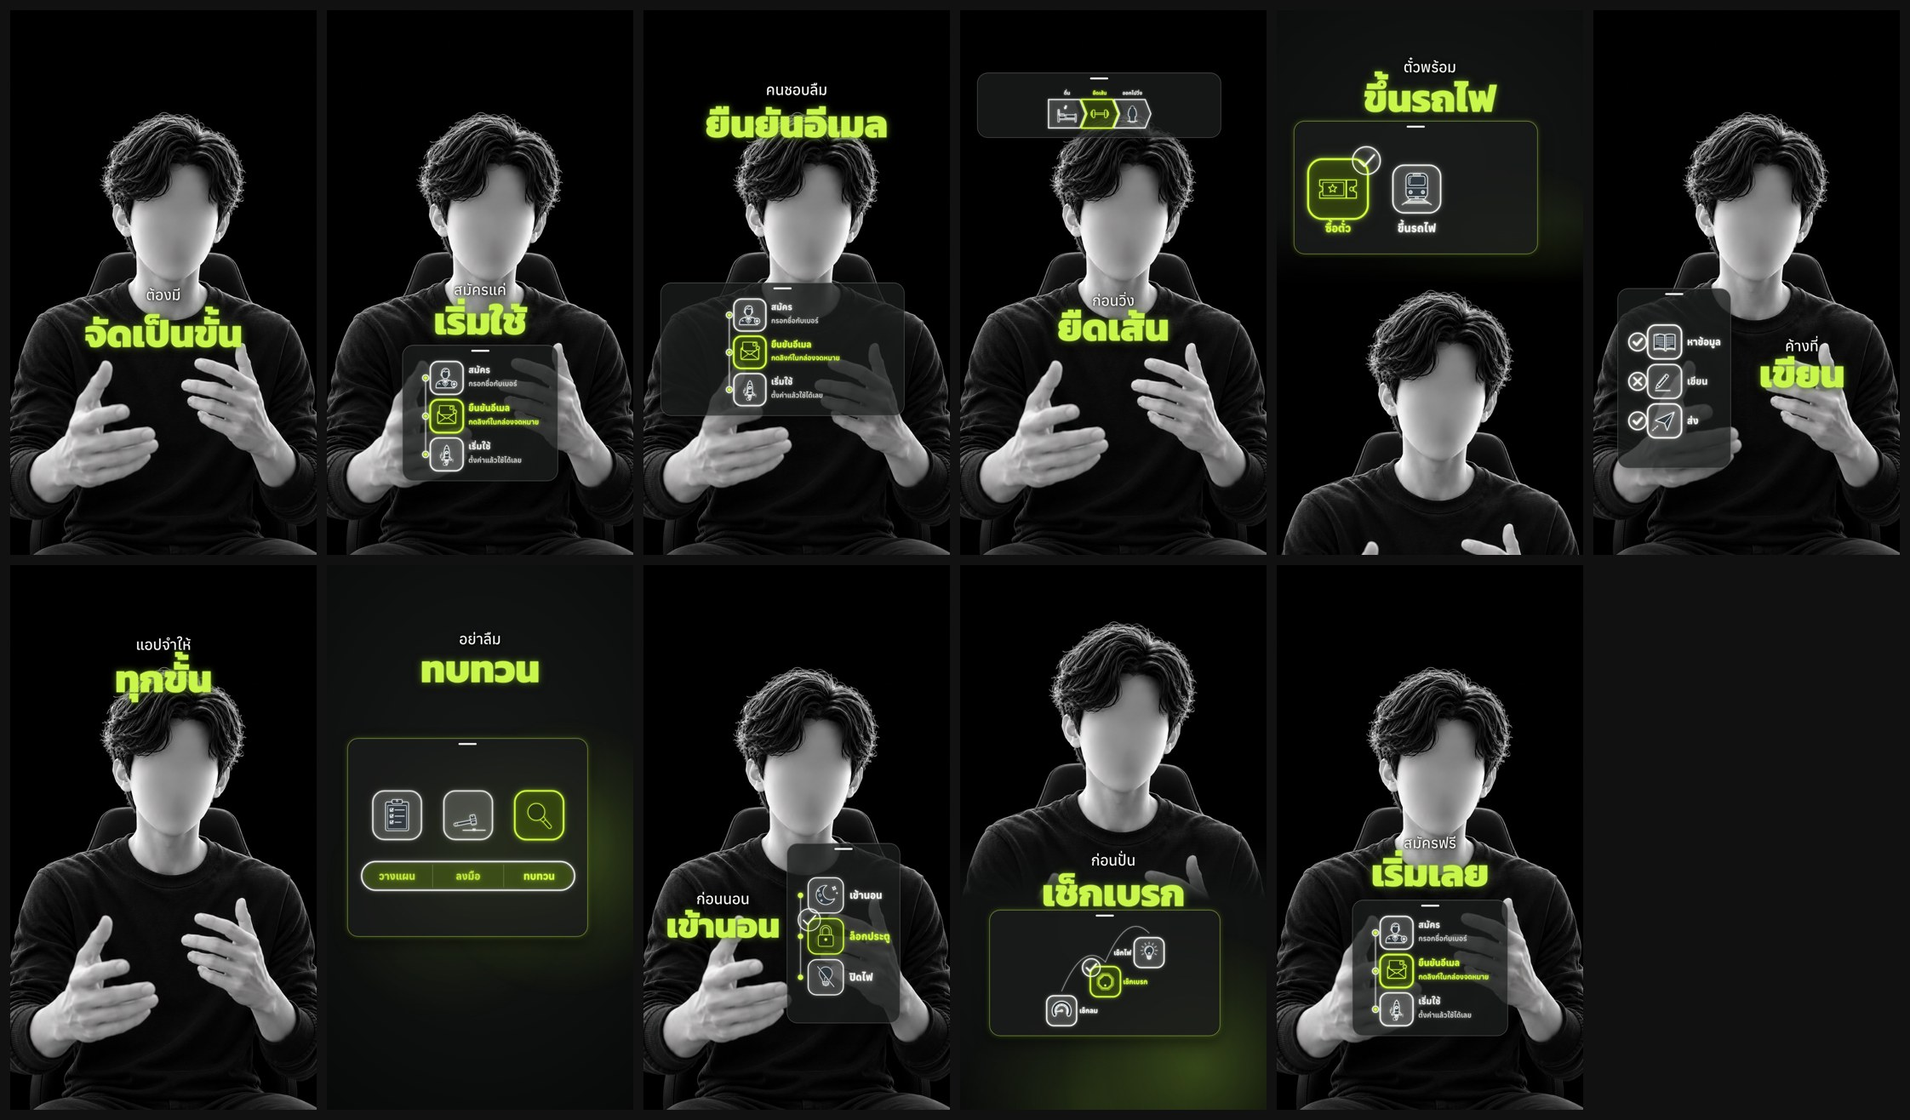
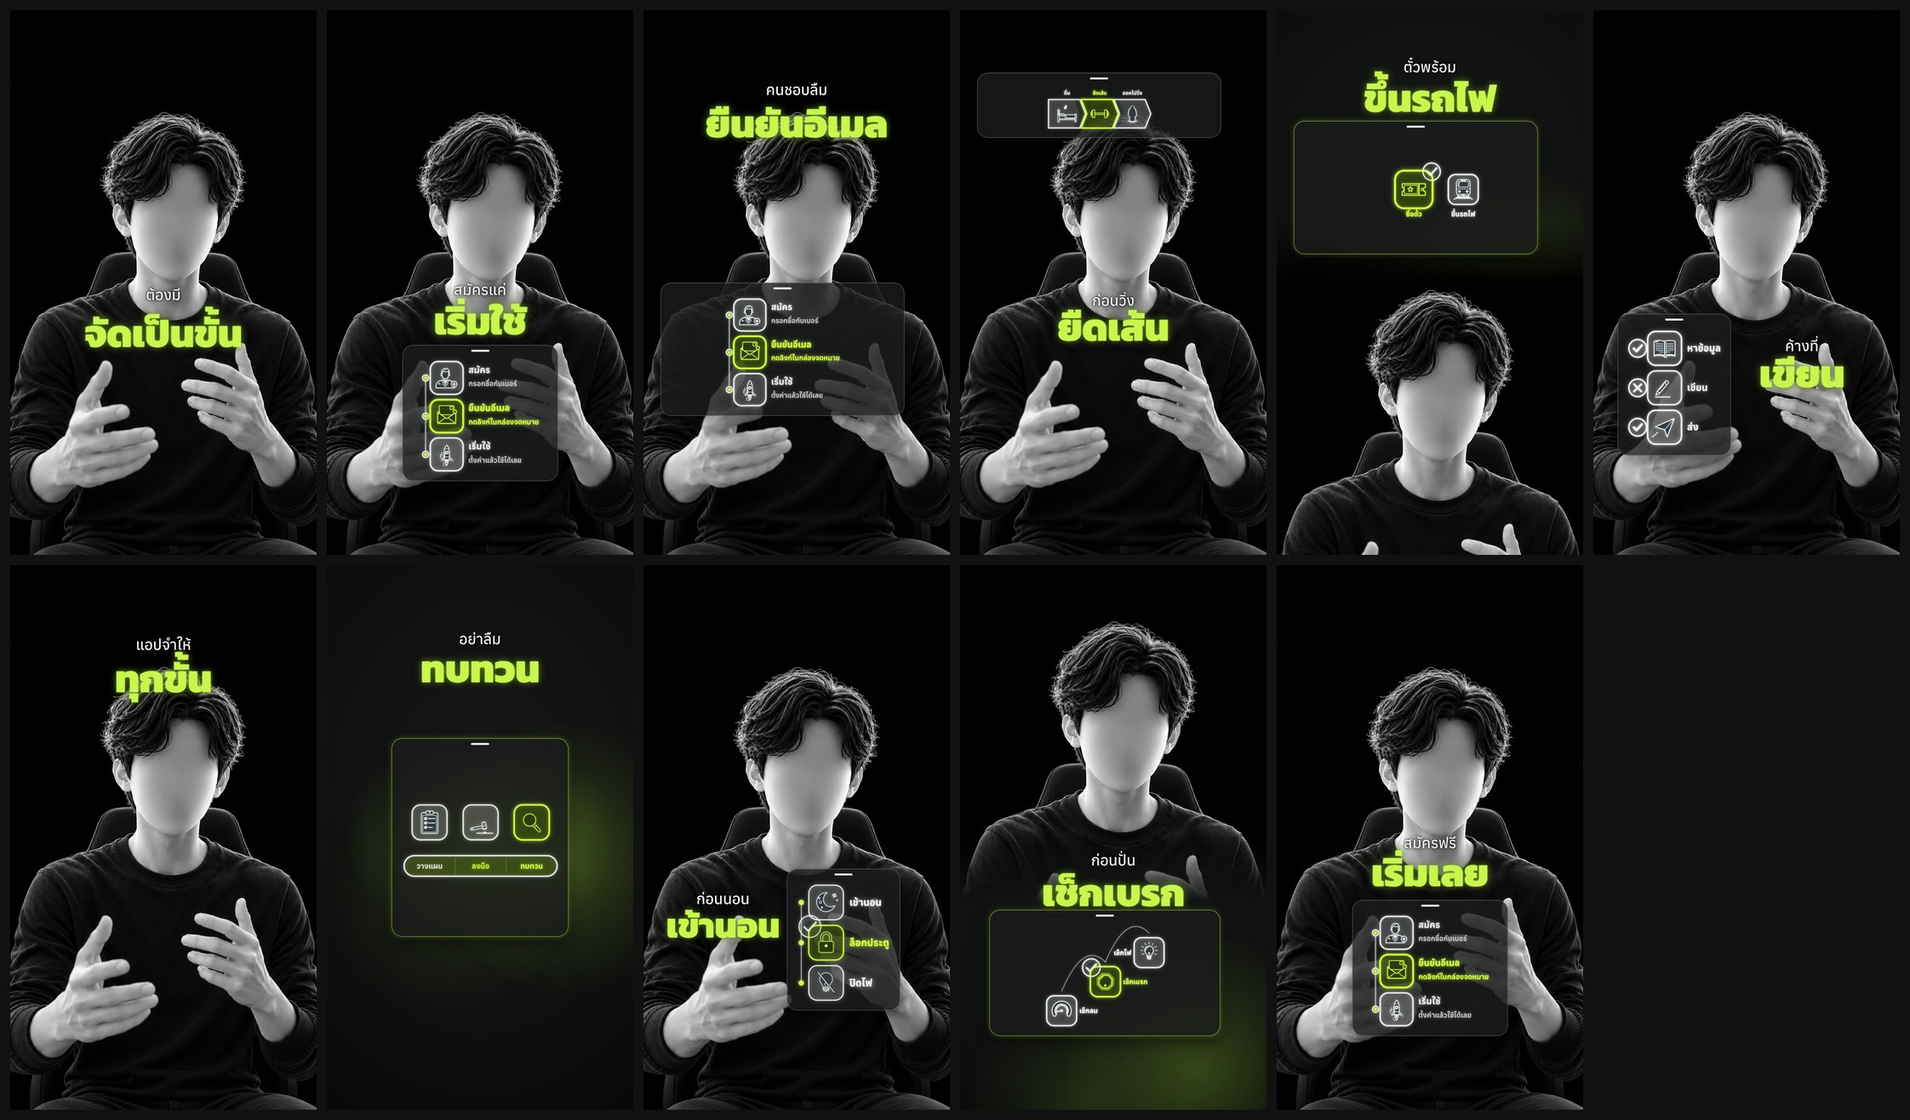
CutPack: lime still sheet remade (l05 now inside its card); README, handoff and decisions brought up to date
Claude-Session: https://claude.ai/code/session_01S8EfU7YjmNDhxhQLi4N7NF

diff --git a/cutpack/style-rules/README.md b/cutpack/style-rules/README.md
@@ -118,10 +118,10 @@ Friend ยกเลิกสไตล์เก่าทั้ง 8 แบบ แ
 - **Friend 2026-11-18 (ทุกสไตล์): "คลิปต้องเปิดด้วยฉากที่มีหน้า user เสมอ"** แก้แล้วใน `clip_plan.py`: สไตล์ที่ยังไม่มี `openFace` เปิดด้วยคนพูดเสมอ · นีออนฟ้าสุ่มหน้าเต็มจอ/หน้าในกรอบ · สไตล์อื่นเพิ่ม `openFace` ตอนถึงคิว final (DECISIONS ข้อ 3 จุดแก้นีออนฟ้า final ข้อ 9)
 - **Friend 2026-11-18 (แก้ทุกสไตล์ · แก้แล้ว ผ่านกับนีออนฟ้า final): "เวลา user พูดประเด็นอะไรอยู่ อย่าเปลี่ยนฉากกลางคัน ให้เขาพูดเรื่องนั้นให้จบก่อน"** → ฉากเปลี่ยนได้เฉพาะตอนจบประโยค (DECISIONS ข้อ 3 จุดแก้นีออนฟ้า final ข้อ 6)
 - 9 จอที่เคยขึ้นเฉพาะเนื้อหาบางแบบ (ชวนติดตาม คำเตือน) ในสไตล์ 1–8 เป็นจอทั่วไปแล้ว (Friend 2026-11-18: "ทำตามที่คุณแนะนำ") · จอคนเต็มจอของนีออนฟ้า เขียวมะนาว หน้าต่างแอป ม่วงคลื่นเสียง ยังไม่ขึ้นกับคลิปทดสอบ (หน้าอยู่ต่ำ)
-- ภาพที่ขยับเกินกล่องของมันตอนกลางการขยับ ในเขียวมะนาวยังไม่หด (Friend 2026-11-18: "อยากให้มีผลเฉพาะสไตล์นี้ครับ ถ้าสไตล์อื่นไม่มีปัญหาก็ไม่ต้องแก้") ถ้าเจอภาพล้นในสไตล์ไหน เปิด `motionFit` ของสไตล์นั้น (ถาม Friend ก่อน LESSONS 63) · นีออนฟ้าแก้แล้วด้วย `clipRoom` (final)
+- ~~ภาพที่ขยับเกินกล่องของมันตอนกลางการขยับ ในเขียวมะนาวยังไม่หด~~ **แก้แล้ว 2026-11-24**: กฎทุกสไตล์ `common.md` 4.1 กฎ 9 (ภาพอยู่ในการ์ดตลอดเวลา) · เขียวมะนาว `motionFit: 'whole'` + การ์ดตัดขอบ · หน้าต่างแอป `motionFit` เดิม + หน้าต่างตัดขอบ · นีออนฟ้า `clipRoom` · สไตล์อื่นทำทีละสไตล์เมื่อ Friend สั่ง
 - จอสรุป (recap) ยังไม่ใช้ในคลิปจริง
 - **แบบภาพที่ `fit_pick` เลือก สุ่มต่างกันได้ในบางรอบแม้ seed เดิม** (เจอ 2026-11-19 เขียวมะนาวคลิป 2 seed 239287 รัน 5 รอบ ต่าง 1 รอบ) → **ตรวจ 2026-11-20 (Friend: "จะให้หาต้นเหตุและแก้เลยครับ")**: รันซ้ำวันนี้ไม่เจออีก (แผนเต็ม 4 รอบ · `fit_pick` ตรง ๆ 3 รอบ · รันขนานกัน 3 งาน) · เจอสาเหตุจริงของ "fit pick left some out" = แบบภาพในกองของฉากนั้นถูกฉากก่อนหน้าใช้หมด (กฎห้ามซ้ำในคลิปเดียว) ไม่ใช่ความผิดพลาด · ที่ยังเหลือเป็นไปได้คือหน้าเว็บวัดภาพ timeout 90 วินาทีตอนเครื่องทำงานหนัก แล้วตกไปใช้ `pick.js` แบบเงียบ ๆ → **แก้แล้ว**: `fit_pick.js` ลองใหม่อีก 1 ครั้งก่อนยอมแพ้ · `clip_plan.py` พิมพ์ชื่อฉากที่วัดไม่ได้และเหตุผลทุกครั้ง (เดิมเงียบ) · แผนของ seed เดิมยังตรงกับก่อนแก้ทุกตัว
 - **ทดสอบหน้าจำลอง 3 แบบ (หน้าสูง · หน้าเล็ก · หน้าใหญ่) × 10 สไตล์ (2026-11-18, Friend: "ต้องรองรับกับคลิปของ user ทุกคนด้วยนะ")**: 0 หลุดโซน · 0 สีกลืน · ตัววัดภาพไม่พัง · ภาพหรือคำทับหน้า 1 ครั้งใน 30 รอบ (HUD หน้าใหญ่) · จอคนเต็มจอที่มีภาพไม่ขึ้นเลย → แก้แล้ว: จอ ก กับ ข ขึ้นเท่ากันทุกสไตล์ (Friend 2026-11-18 · `common.md` ข้อ 3) · ทดสอบซ้ำ 20 รอบ: 0 ทับหน้า · 0 หลุดโซน (หลังแก้ HUD ฟอนต์โหลดช้า และเขียวน้ำทะเลคำเด่นล่างสุด y 1576)
-- **`fitPick` + `realShapes` ใช้ทุกสไตล์แล้ว** (Friend 2026-11-18: "ข" หลังทดลองกับนีออนฟ้า · คลิปทดสอบภาพเฉลี่ยใหญ่ขึ้นทุกสไตล์ เช่น เทอร์มินัลแดง 13% → 22% · ไฟล์สกิลทุกสไตล์หัวข้อวิธีเลือกจอ)
+- **`fitPick` ใช้ทุกสไตล์แล้ว · `realShapes` ทุกสไตล์ยกเว้นเขียวมะนาวและหน้าต่างแอป** (สองสไตล์นี้เลิกใช้ทรงภาพเลือกฉากแล้ว จึงไม่สร้างหน้ารอบ 2 · 2026-11-24) (Friend 2026-11-18: "ข" หลังทดลองกับนีออนฟ้า · คลิปทดสอบภาพเฉลี่ยใหญ่ขึ้นทุกสไตล์ เช่น เทอร์มินัลแดง 13% → 22% · ไฟล์สกิลทุกสไตล์หัวข้อวิธีเลือกจอ)
 - **ของที่นีออนฟ้า final มีแล้ว สไตล์อื่นยังไม่มี** (เปิดทีละสไตล์ตอนถึงคิว final ถาม Friend ก่อน): `openFace` · `clipRoom` · `centreBox` · `noEdge` · ตัดเข้า-ออกแบบ editorial · โซนขวา x 960
 - `tools/frames.sh` `tools/sheet4.py` `tools/stills.sh` ยังเรียกชื่อสไตล์เก่า

diff --git a/cutpack/DECISIONS.md b/cutpack/DECISIONS.md
@@ -583,6 +583,7 @@
         - Claude ลงแบบ ข ของเขียวมะนาว (`motionFit` + การ์ดตัดขอบ) แล้วเห็นว่าภาพบางแบบยังโดนตัดขอบ → **Friend 2026-11-24: "อันที่มันล้นขอบออกมาทำไมไม่ย่อแล้วจัดองค์ประกอบให้มันอยู่ตรงกลางอ่ะ"** → Claude: `motionFit` เดิมนับท่าขยับแค่ 20% เลยภาพตอนจบ ย่อได้ไม่เกิน 1.6 เท่า และจัดกลางตามภาพตอนจบ · ทำได้: ย่อทั้งท่าขยับให้อยู่ในการ์ดแล้ววางกลาง (ย้ายชิ้นในภาพไม่ได้ ห้ามวาดใหม่)
         - **Friend: "ถ้าแก้แล้วมันจะไม่มีผลตอนที่ผมทำ motion graphic 7 ขนาดชุดใหม่ใช่ไหม"** → Claude: ใช่ ทำงานเฉพาะภาพที่ล้น ภาพที่อยู่ในกล่องเหมือนเดิมทุกพิกเซล ตรวจได้ด้วยการปิดตัวแก้แล้วเทียบ
         - **Friend 2026-11-24: "ok ครับแก้เลยไม่ต้องส่งรูปมาให้ดูทำเลย"** → เขียวมะนาว: ภาพที่ท่าขยับล้นการ์ด ย่อทั้งภาพจนท่าขยับทั้งหมดอยู่ในการ์ด วางท่าขยับไว้กลางการ์ด ไม่มีเพดาน 20% / 1.6 เท่า · ภาพที่ไม่ล้นไม่แตะ · การ์ดยังตัดขอบกันพลาด
+        - ทำแล้วตามคำตอบ 5 ข้อ: (1) เขียวมะนาวย่อและวางกลางภาพที่ล้นการ์ด (`774edf3`) · (2) ตัวตรวจโซน (`1efc2cd`) · (3) ซับชิดใต้แถบค้นหา เขียวมะนาว (`778c999`) · (4) เก็บโค้ด (`dff125c` `4893a9d` `a2305fc`) + เครื่องมือทดสอบ (`e68aac8`) · Claude ตัดสินระหว่างทำ (บอก Friend ในรายงาน): ให้ท่าขยับใช้ขอบเว้นของการ์ดได้ก่อนย่อ (กฎคือ "อยู่ในการ์ด" ไม่ใช่ "อยู่ในกล่องภาพ") · 0.4 วินาทีแรกที่ภาพเข้า ไม่นับในการย่อ (การ์ดตัดขอบแทน) · ภาพที่ 2+ ของก้อนจอแบ่งถูกตัดขอบเท่าการ์ด และขยับตรงกับการ์ด (เดิมคลาด 2 px)
       - **(ก่อนหน้านั้น) วงแหวนหน้าต่างแอป**: Friend "เวลามันมีฉากแบบนี้ต่อกัน การหมุนและตำแหน่งของวงแหวน มันไม่ต่อเนื่องอะครับ ผมอยากให้มันอยู่ตำแหน่งเดิมตลอด และหมุนต่อเนื่อง" → วงคู่เดียวตำแหน่งคงที่ทุกจอ (เลิกสลับซ้ายขวาและเลิก `ringUp`) · มุมหมุนคิดจากนาฬิกาคลิป (4.5°/วินาที) · วัดทุกรอยต่อแล้วต่อเนื่อง
           - **Friend 2026-11-19 (หลังคลิปที่ 3 · Claude สรุปเรื่องที่รอ 4 ข้อ: hook 3 วินาทีเป็นกฎไหม · เสียงประกอบ −6 dB เป็นค่าใหม่ไหม · 5 ขนาด · final สไตล์ไหนต่อ): "ข้อ 1 2 4 เอาไว้ก่อนครับมาคุยเรื่องข้อ 3 กันดีกว่า"** → พัก hook 3 วินาที · เสียงประกอบ · final สไตล์ถัดไป · คุยเรื่อง 5 ขนาดของ motion graphic ก่อน (จดตามที่ Friend พิมพ์ ยังไม่แก้)
           - **คลิปเปรียบเทียบ (Friend 2026-11-19): "เอาคลิปที่ผมพูดว่าน่าจะมีหลายคนที่ติดกับดักเหมือนผม ทำเป็นคลิปเปรียบเทียบ raw กับ AI Edit" · "ห้ามใส่ชื่อ cutpack" · "Raw อยู่ด้านซ้ายขนาดเล็กกว่า ai edit อยู่ด้านขวาขนาดใหญ่กว่า" · "คำว่า AI edit ทำให้เด่นหน่อยนะ" · "และคลิป compare แบบนี้ก็ทำให้เข้า theme กับสไตล์ด้วย"** → คลิปที่ 2 (93.7 วินาที) · AI Edit = รุ่นล่าสุดที่ Friend สั่งเรนเดอร์ (ภาพขึ้นใน 3 วินาทีแรก) · ธีมเขียวมะนาว (พื้นถ่าน แสงเขียว การ์ดมีขีดจับ คำ "AI EDIT" Kanit หนาสีเขียวเรือง) · 1080 × 1920 · วิดีโอทั้งสองอยู่ใน x 60–920 (ไม่เข้าโซนปุ่ม) · เสียงจาก AI Edit · ไม่มีชื่อ CutPack · ทำนอก repo (คลิปของ Friend) · **ผล:** Raw 284 × 504 ในการ์ดถ่าน (x 60–372) ป้าย "Raw" Anuphan 600 54 px ขาว · AI Edit 496 × 882 ในการ์ดขอบเขียวเรือง (x 396–920) ป้าย "AI EDIT" Kanit 800 134 px `#C9F64B` เรืองเขียว · พื้นถ่าน + แสงเขียว 2 ดวง (นิ่ง) แบบเขียวมะนาว · มุมวิดีโอมน 24 · 93.7 วินาที 31 MB ส่งแล้ว · ทำด้วย HTML (playwright) + ffmpeg ใน scratchpad

diff --git a/cutpack/HANDOFF.md b/cutpack/HANDOFF.md
@@ -20,6 +20,8 @@
 
 **แชท `ccr-7eb7a684-kfdx3f` (2026-11-24) รับงาน 4 ข้อนี้แล้ว** เริ่มจากสาขาหลัก `7a915d8` · push ที่สาขา `ccr-7eb7a684-kfdx3f` · ทำทีละข้อ รายงาน Friend ก่อนแก้ (คำพูดเต็ม DECISIONS)
 - **ทำแล้ว (Friend: "ทำงาน 4 ข้อตามที่ผมสั่งไว้ เริ่มได้")**: ข้อ 1 `lime.md` + `window.md` ตรงกับโค้ดแล้ว (หัวไฟล์ final รุ่น 3 / รุ่น 2 · ลำดับเลือกฉากตามโค้ด · ประวัติคำตัดสิน · ผล 3 scenario) + แผ่นภาพนิ่ง `03_window_final.jpg` รุ่น 2 · ข้อ 2 `common.md` ตรงกับโค้ดแล้ว · ข้อ 3 แก้แล้ว: บั๊ก 1 hook หน้าต่างแอป (`winShows`) · รูรั่วใหม่ของเขียวมะนาว จอแบ่งเดี่ยวก่อนก้อนจอแบ่ง (211 จุดใน 300 seed → 0) · จุดเปราะ 2 (`G.g.L`) · `card_sizes.js` วัดการ์ดของภาพที่ 2+ ในก้อนผิด (`F.card`) · ทุกข้อ: คลิปถ่ายปกติ/ไกลเหมือนเดิมทุกภาพ ภาพนิ่งต่างกัน 0 พิกเซล · **ยังไม่ได้รันกับคลิปจริงของ Friend** (รอลิงก์)
+- **รอบสอง (Friend ตอบ 5 ข้อ 2026-11-24 · คำพูดเต็ม DECISIONS)**: (1) กฎ "motion graphic อยู่ในการ์ดตลอดเวลา" (`common.md` 4.1 กฎ 9) + เขียวมะนาว: ภาพที่ท่าขยับล้นการ์ด ย่อทั้งภาพให้ท่าขยับทั้งหมดอยู่ในการ์ดแล้ววางกลาง (`GLOWLOOK.lime.motionFit = 'whole'` + `room` ขอบการ์ด + การ์ดตัดขอบ) ภาพที่ไม่ล้นไม่แตะ · (2) ตัวตรวจโซนไม่นับส่วนที่การ์ด/หน้าต่างตัด (`cpClipBox`) · (3) เขียวมะนาว ซับช่วงไม่มีภาพเมื่อไม่มีที่ทั้งใต้คางและเหนือหัว → ชิดใต้แถบค้นหา · (4) เก็บโค้ดทั้งสองสไตล์ + `core.js` `clip_plan.py` (คำอธิบาย · โค้ดที่ไม่ใช้ · ไม่มี `realShapes` · `cpHoldPrevScreen`) ผลเหมือนเดิมทุกพิกเซล · (5) รอลิงก์คลิปจริง
+- **ยังรอ Friend**: หน้าต่างแอปจะใช้ (1) แบบย่อแล้ววางกลาง (`'whole'`) ด้วยไหม (ตอนนี้ย่อมีเพดาน แล้วหน้าต่างตัดส่วนที่เกิน) · หน้าต่างแอปจะใช้ (3) ซับชิดใต้แถบค้นหาด้วยไหม (ตอนนี้ตกไปที่อก ทับปาก) · รันคลิปจริง 3 scenario เมื่อได้ลิงก์ (`fit_pick` ของเขียวมะนาวเลือกแบบภาพต่างจากเดิมได้ เพราะวัดขนาดภาพหลังย่อเข้าการ์ด)
 - **วิธีทดสอบที่ไม่ต้องใช้คลิปของ Friend (อยู่ใน repo แล้ว: `tools/sim_frames.js` `tools/fake_clip.py` · `pixel_check.py --noise 20` · วิธีใช้ `common.md` 8.2)**: (1) ตัวจำลองเลือกฉาก: โหลด `common.js` + ไฟล์สไตล์ใน node `vm` กับ DOM ปลอม หน้าจำลองใกล้/ปกติ/ไกล × 300 seed แล้วนับกฎที่ผิด + เทียบก่อน/หลังทีละภาพ (2) คลิปจำลอง: บท 42.5 วินาที `library/uni-test/cats-ai` (customers) + ภาพคนจำลองขยาย 2.3 / 1.0 / 0.62 เท่า + เสียงเงียบ → `clip_plan.py` → `build_only.sh` → ตัวตรวจทุกตัว
 
 **สถานะตอนส่งต่อ: เขียวมะนาว final รุ่น 3 ผ่าน · หน้าต่างแอป final รุ่น 2 ผ่าน** (Friend: "ตอนนี้ สไตล์เขียวมะนาว และสไตล์หน้าต่างแอป ผ่าน final เป็นที่เรียบร้อย")
